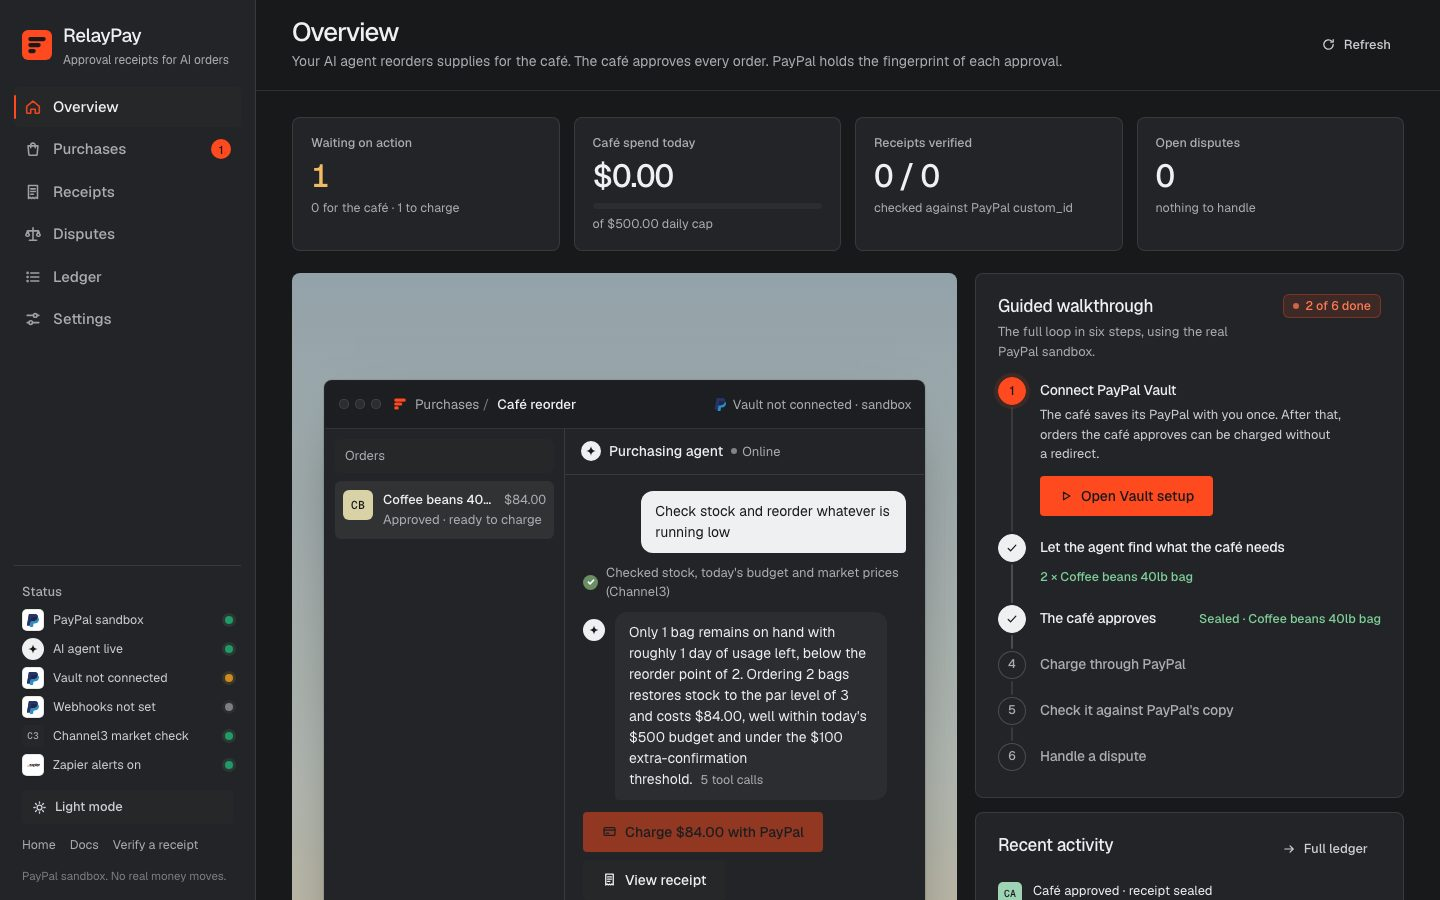
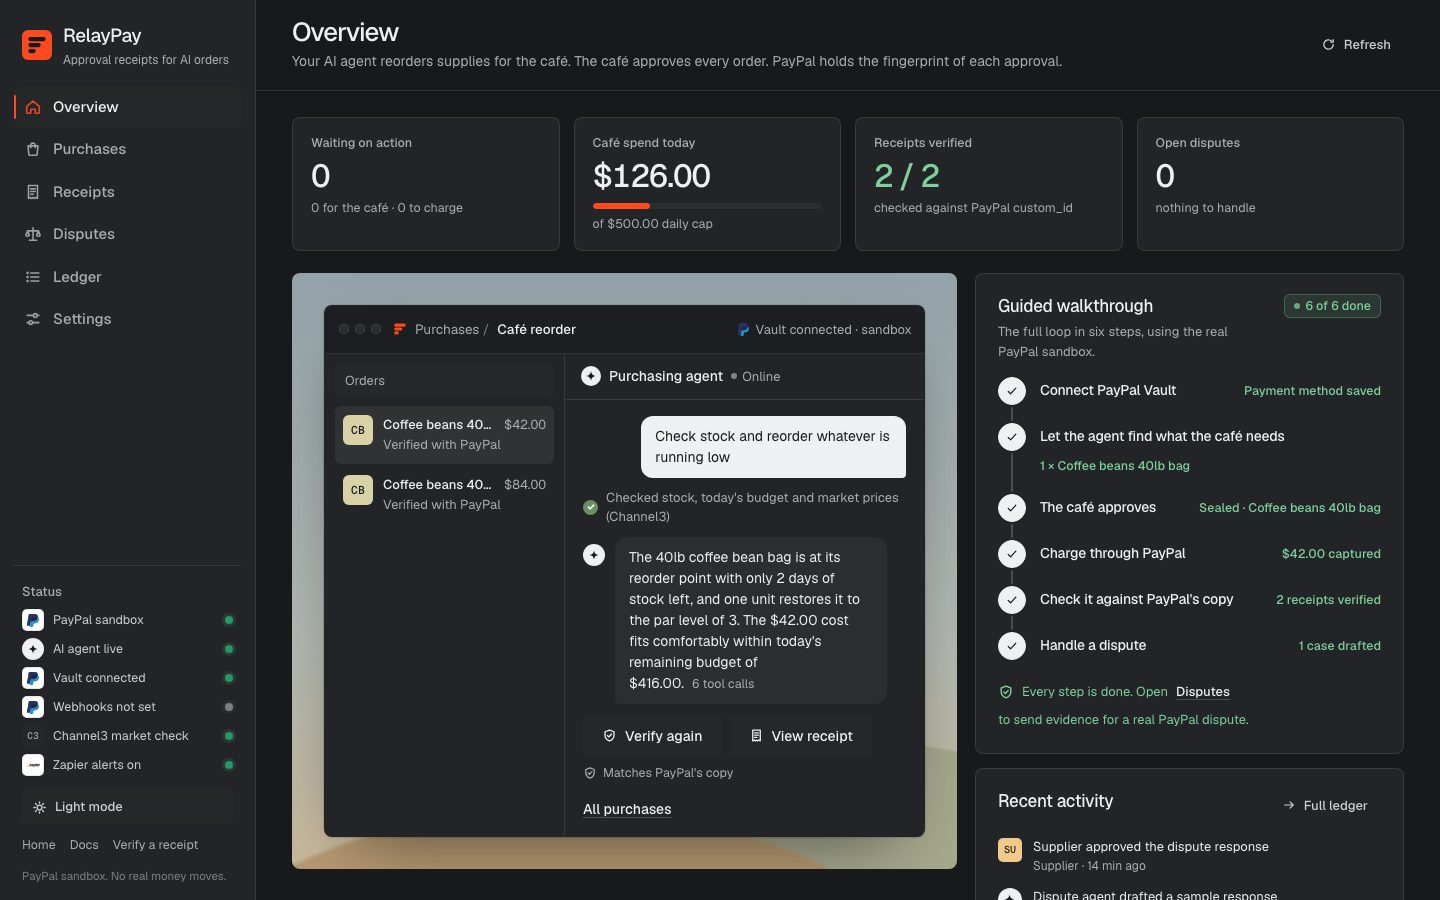
README: real clone URL and screenshots of a verified run
- Clone URL points to github.com/mayurbijarniya/relaypay.
- Console and receipt screenshots show a live run: Vault connected,
  2 of 2 receipts verified with PayPal, 5 of 5 checks.
- Link-preview image matches the corrected landing hero.

diff --git a/README.md b/README.md
@@ -134,7 +134,7 @@ The agents never hold PayPal credentials and never move money. Live PayPal is re
 
 Requires Node 20+ (Node 22.18+ for `npm test`). No database or webhook needed locally.
 
-1. `git clone [paste GitHub repo URL here] && cd relaypay`
+1. `git clone https://github.com/mayurbijarniya/relaypay.git && cd relaypay`
 2. `cp .env.example .env` and fill in `PAYPAL_CLIENT_ID`, `PAYPAL_CLIENT_SECRET` (sandbox), `LLM_API_KEY` and
    `NEXT_PUBLIC_BASE_URL=http://localhost:3000`. The sandbox app needs **Save payment methods** (Vault) enabled.
 3. `npm install` then `npm run dev` → http://localhost:3000 (landing page) and http://localhost:3000/app (the console)
